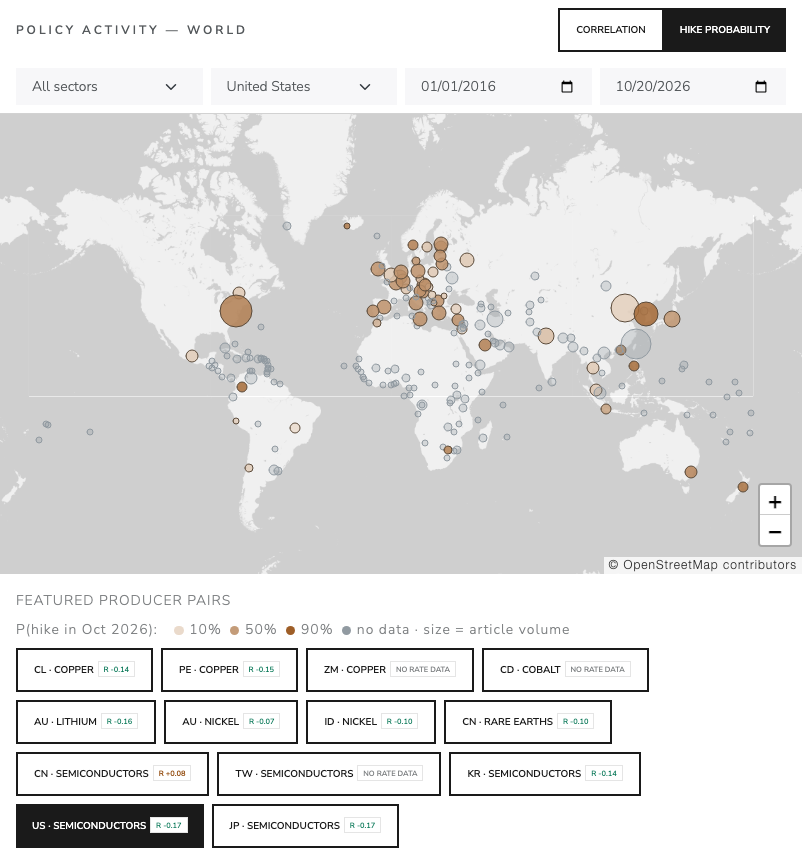
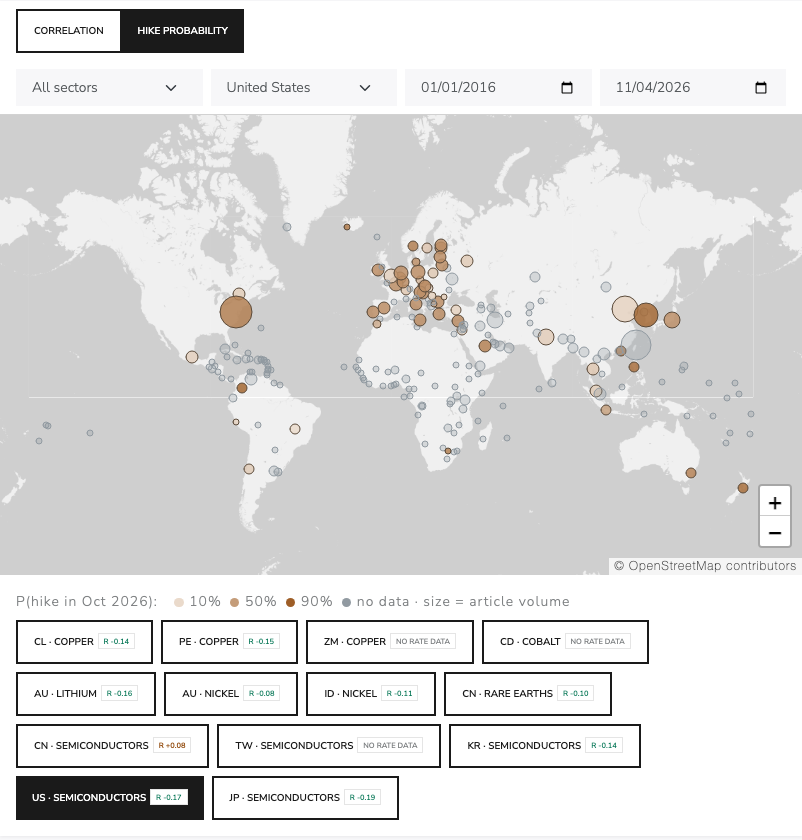
Frontend: replace uppercase section labels with title and sentence-case headings; regenerate demo screenshots

diff --git a/frontend/index.html b/frontend/index.html
@@ -33,13 +33,14 @@
   .prob-base{ position:absolute; top:-.25rem; bottom:-.25rem; width:2px; background:#1a1a1a; }
   .driver-row{ display:grid; grid-template-columns:minmax(0,1fr) 40%; gap:.75rem; align-items:center; font-size:.8rem; }
   .driver-bar{ height:.45rem; background:#c9bfae; border-radius:.2rem; }
+  .section-title{ font-size:.9rem; font-weight:600; }
   .feed-list{ max-height:560px; overflow-y:auto; }
   .feed-list .list-group-item a{ color:inherit; text-decoration:none; }
   .feed-list .list-group-item a:hover{ text-decoration:underline; }
   .interpret p{ font-size:.875rem; line-height:1.65; }
   @media (min-width:1200px){ .sticky-panel{ position:sticky; top:1rem; } }
   .navbar-brand{ white-space:normal; }
-  .toolbar > select, .toolbar > input{ flex:1 1 9rem; min-width:0; max-width:14rem; }
+  .toolbar > select, .toolbar > input{ flex:1 1 9rem; min-width:0; }
   .pair-chip{ white-space:normal; text-align:left; }
   @media (max-width:575.98px){ .navbar-brand{ font-size:1rem; letter-spacing:.08em; } }
 </style>
@@ -63,7 +64,6 @@
     <div class="col-xl-7">
       <div class="card">
         <div class="card-header d-flex flex-wrap gap-2 align-items-center toolbar">
-          <h6 class="mb-0 me-auto">Policy activity — world</h6>
           <div class="btn-group btn-group-sm" role="group" aria-label="Map layer">
             <button class="btn btn-primary" data-layer="correlation">Correlation</button>
             <button class="btn btn-outline-primary" data-layer="hike">Hike probability</button>
@@ -80,10 +80,7 @@
         </div>
         <div id="map" role="img" aria-label="World map: one marker per country, sized by tagged-article volume and coloured by the sign of the rate-to-valuation correlation for the selected sector"></div>
         <div class="card-body">
-          <div class="d-flex flex-wrap justify-content-between align-items-center gap-2 mb-2">
-            <span class="text-uppercase small text-muted">Featured producer pairs</span>
-            <span class="small text-muted" id="legend"></span>
-          </div>
+          <div class="small text-muted mb-2" id="legend"></div>
           <div class="d-flex flex-wrap gap-2" id="featured"></div>
         </div>
       </div>
@@ -439,14 +436,14 @@ function sigBadge(d) {
 function hikeSection() {
   const f = (forecast.countries || {})[active.country];
   const name = esc(countryName(active.country));
-  if (!f) return `<div class="mt-4 pt-3 border-top"><div class="small text-muted text-uppercase mb-2">Next-month rate hike</div>
+  if (!f) return `<div class="mt-4 pt-3 border-top"><div class="section-title mb-2">Next-month rate hike</div>
     <p class="small text-muted mb-0">No forecast for ${name}: there is no BIS policy-rate series to learn from.</p></div>`;
   const base = forecast.base_rate || 0;
   const maxImp = Math.max(...(forecast.drivers || []).map(x => x.importance), 1e-9);
   const lift = f.p / Math.max(base, 1e-9);
   return `<div class="mt-4 pt-3 border-top">
     <div class="d-flex justify-content-between align-items-baseline mb-2">
-      <div class="small text-muted text-uppercase">Next-month rate hike · ${esc(fmtMonth(f.target))}</div>
+      <div class="section-title">Next-month rate hike, ${esc(fmtMonth(f.target))}</div>
       <div class="stat fs-4 ${f.p >= 0.5 ? 'pos' : ''}">${pct(f.p)}</div>
     </div>
     <div class="prob-track mb-1" role="img" aria-label="Hike probability ${pct(f.p)} against a base rate of ${pct(base)}">
@@ -478,9 +475,8 @@ function renderPanel() {
   panel.innerHTML = `
     <div class="d-flex flex-wrap justify-content-between align-items-start gap-3 mb-1">
       <div style="min-width:0">
-        <div class="small text-muted text-uppercase">${esc(countryName(active.country))} — ${esc(sec)}</div>
-        <h4 class="mb-1">${rateBasis === 'real' ? 'Real' : 'Nominal'} rate vs. ${targetLabel}</h4>
-        <div class="small text-muted">Control: ${d ? (d.control ? esc(d.control.replace(/_/g, ' ')) + ' (auto-selected)' : 'none') : 'n/a'} · ${d ? `best lag t+${d.lag}` : 'lag n/a'}</div>
+        <h4 class="mb-1">${esc(countryName(active.country))} — ${esc(sec)}</h4>
+        <div class="small text-muted">${rateBasis === 'real' ? 'Real' : 'Nominal'} rate vs. ${targetLabel} · Control: ${d ? (d.control ? esc(d.control.replace(/_/g, ' ')) + ' (auto-selected)' : 'none') : 'n/a'} · ${d ? `best lag t+${d.lag}` : 'lag n/a'}</div>
       </div>
       <div class="d-flex flex-column align-items-end gap-2">
         ${d ? sigBadge(d) : ''}
@@ -517,13 +513,12 @@ function renderPanel() {
       </tbody>
     </table>
 
-    <div class="small text-muted text-uppercase mt-4 mb-2">Best-fit lag</div>
+    <div class="section-title mt-4 mb-2">Best-fit lag</div>
     <div class="lag-bars">
       ${[0, 1, 2, 3].map(t => `<div class="bar ${t === d.lag ? 'best' : ''}"><div class="fill" style="height:${t === d.lag ? 64 : 16}px"></div><small class="${t === d.lag ? 'fw-bold' : 'text-muted'}">t+${t}</small></div>`).join('')}
     </div>` : ''}
 
     <div class="interpret border-start border-3 ps-3 mt-4">
-      <div class="small text-muted text-uppercase mb-2">What this result says</div>
       ${interpretHtml}
     </div>
     ${hikeSection()}`;

diff --git a/README.md b/README.md
@@ -373,7 +373,7 @@ analysis/   correlation_regression.py (batch + kernels + BH q-values), forecast.
             interpret.py (LLM interpretation + cache), Dockerfile
 api/        main.py (FastAPI), export.py (CSV/XLSX/PDF service), Dockerfile, Dockerfile.export
 frontend/   index.html (Bootswatch Lux, Leaflet world map with correlation / hike layers, correlation panel, article feed)
-images/     README demo screenshots (live production site)
+images/     README demo screenshots (production data)
 infra/      Terraform (BigQuery, Functions, Cloud Run, Scheduler, Firebase, budget), Cloud Build
 notebooks/  01_etl_pipeline.ipynb (ingest, tagging, rules-vs-LLM agreement)
             02_correlation_regression.ipynb (engines cross-check, diagnostics, Lasso, FDR correction)
@@ -386,7 +386,7 @@ Production inference and tagging live in `.py` modules, because Cloud Functions 
 
 ## Demo
 
-Screenshots of the live site ([mp-commodities-corr.web.app](https://mp-commodities-corr.web.app)), taken 2026-10-20 against production data. Desktop views at 1440 px, the mobile view at a true 390 px viewport.
+Screenshots of [mp-commodities-corr.web.app](https://mp-commodities-corr.web.app), taken 2026-11-03 against production data. Desktop views at 1440 px, the mobile view at a true 390 px viewport.
 
 **Dashboard: world correlation map and US/semiconductors panel** ([`?country=US&sector=semiconductors`](https://mp-commodities-corr.web.app/?country=US&sector=semiconductors)). Markers cover all 218 economies; colour is the sign of *r* for the active basis × target, and size is tagged-article volume.
 
@@ -400,7 +400,7 @@ Screenshots of the live site ([mp-commodities-corr.web.app](https://mp-commoditi
 | Next-month rate-hike forecast | Live news feed (rules-first tagging) |
 | --- | --- |
 | ![Hike forecast](images/04-hike-forecast.png) | ![News feed](images/05-news-feed.png) |
-| US: 69%, 6.1× the 11% base rate; out-of-sample ROC-AUC 0.83; permutation-importance drivers | Category tabs, sentiment/stance/subtype badges, `auto` (rules) vs `LLM` (Gemini-refined) provenance |
+| US: 68%, 6.0× the 11% base rate; out-of-sample ROC-AUC 0.83; permutation-importance drivers | Category tabs, sentiment/stance/subtype badges, `auto` (rules) vs `LLM` (Gemini-refined) provenance |
 
 <p align="center"><img src="images/06-mobile.png" alt="Mobile view at 390 px" width="320"><br><em>Mobile (390 px): stacked layout, no horizontal scroll</em></p>
 
